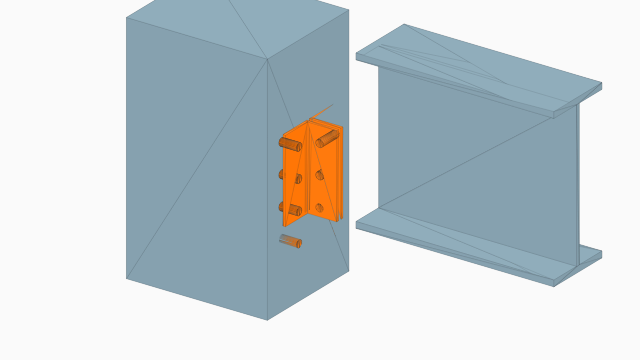
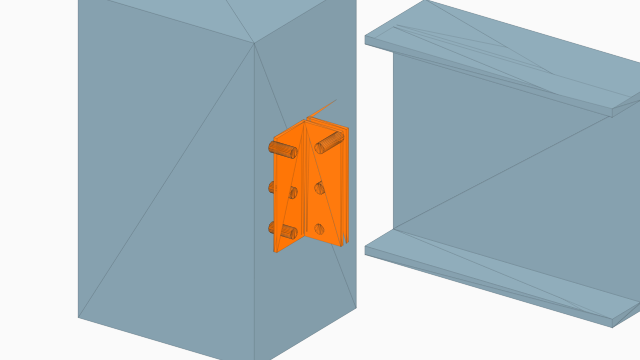
fix(shear): valida que los pernos queden dentro del elemento
- Rechaza grupos de pernos que no caben en el largo de la placa o angulo.
- Exige l_ev y l_eh no menores que la Tabla J3.4 y separacion 2⅔d.
- Detiene el calculo con un mensaje que indica el campo y la correccion.
- Corrige el doble angulo inicial: 3 filas caben en 8.5 in.
- Actualiza ayuda, referencia y miniaturas.

diff --git a/tests/connections/test_bolt_fit.py b/tests/connections/test_bolt_fit.py
@@ -1,0 +1,112 @@
+# SPDX-License-Identifier: GPL-3.0-or-later
+# Copyright (C) 2026 The OpenConex contributors
+"""Bolt-fit validation: holes must stay inside the connected element.
+
+These tests cover the error that stopped a double angle with four rows drawn in
+an 8.5 in angle: the last bolt fell outside the angle.  The same rule applies
+to every shear connection whose bolt rows are defined by length, rows, spacing
+and edge distance.
+"""
+
+import dataclasses
+import json
+from pathlib import Path
+
+import pytest
+
+from openconex.connections.shear.bent_plate import SkewedBentPlate
+from openconex.connections.shear.check import (
+    check_shear_connection,
+    validate_shear_connection,
+)
+from openconex.core.loads import Forces, Method
+from openconex.gui.start_data import FAMILIES, build_project
+from openconex.io.project import Project
+from openconex.report.shear import build_shear_report
+from openconex.units import Kind, to_internal
+
+EXAMPLES = Path(__file__).parents[2] / "examples"
+
+
+def inch(value: float) -> float:
+    return to_internal(value, "in", Kind.LENGTH)
+
+
+def kip(value: float) -> float:
+    return to_internal(value, "kip", Kind.FORCE)
+
+
+def model(family: str, subtype: str):
+    return build_project(family, subtype).shear_model()
+
+
+@pytest.mark.parametrize(
+    "family",
+    [family for family in FAMILIES if family.enabled and family.id != "base_plate"],
+    ids=lambda family: family.id,
+)
+def test_starter_projects_have_valid_bolt_groups(family):
+    for subtype in family.subtypes:
+        validate_shear_connection(model(family.id, subtype.id))
+
+
+@pytest.mark.parametrize("subtype", [
+    "double_angle", "single_plate", "extended_single_plate", "end_plate",
+    "skewed_bent_plate",
+])
+def test_bolt_group_outside_element_is_rejected(subtype):
+    conn = model("shear_column", subtype)
+    element = conn.element
+    if isinstance(element, SkewedBentPlate):
+        plate = dataclasses.replace(element.plate_a, rows=element.plate_a.rows + 1)
+        element = dataclasses.replace(element, plate_a=plate)
+    else:
+        element = dataclasses.replace(element, rows=element.rows + 1)
+    with pytest.raises(ValueError, match="no caben"):
+        validate_shear_connection(dataclasses.replace(conn, element=element))
+
+
+@pytest.mark.parametrize("subtype", [
+    "double_angle", "single_plate", "extended_single_plate", "end_plate",
+])
+def test_vertical_edge_below_table_j34_is_rejected(subtype):
+    conn = model("shear_column", subtype)
+    element = dataclasses.replace(conn.element, lev=inch(0.75))
+    with pytest.raises(ValueError, match=r"Tabla J3\.4"):
+        validate_shear_connection(dataclasses.replace(conn, element=element))
+
+
+@pytest.mark.parametrize(("subtype", "field"), [
+    ("double_angle", "leh_beam"),
+    ("single_plate", "leh"),
+    ("extended_single_plate", "leh"),
+    ("end_plate", "leh"),
+])
+def test_horizontal_edge_below_table_j34_is_rejected(subtype, field):
+    conn = model("shear_column", subtype)
+    element = dataclasses.replace(conn.element, **{field: inch(0.75)})
+    with pytest.raises(ValueError, match=r"Tabla J3\.4"):
+        validate_shear_connection(dataclasses.replace(conn, element=element))
+
+
+def test_spacing_below_j33_is_rejected():
+    conn = model("shear_column", "double_angle")
+    element = dataclasses.replace(conn.element, spacing=inch(1.0))
+    with pytest.raises(ValueError, match="separación mínima"):
+        validate_shear_connection(dataclasses.replace(conn, element=element))
+
+
+def test_invalid_geometry_stops_the_calculation():
+    conn = model("shear_column", "double_angle")
+    element = dataclasses.replace(conn.element, rows=4)
+    conn = dataclasses.replace(conn, element=element)
+    with pytest.raises(ValueError, match="no caben"):
+        check_shear_connection(conn, Forces(V2=kip(10)), Method.LRFD)
+
+
+def test_report_rejects_the_invalid_double_angle():
+    data = json.loads((EXAMPLES / "shear_double_angle_coped.ocnx").read_text(
+        encoding="utf-8"))
+    data["shear_connection"]["rows"] = 4
+    with pytest.raises(ValueError, match="no caben"):
+        build_shear_report(Project.model_validate(data))

diff --git a/src/openconex/connections/shear/check.py b/src/openconex/connections/shear/check.py
@@ -24,6 +24,7 @@ from openconex.kernel.design import Calc
 from openconex.units import Kind
 
 from .bent_plate import SkewedBentPlate, check_skewed_bent_plate
+from .bolts_fit import check_edge, check_rows, check_spacing, fail, fmt_length
 from .coped_beam import CopedBeam, check_coped_beam
 from .double_angle import DoubleAngle, check_double_angle, check_shared_support_bolts
 from .double_angle_axial import AxialBeam, check_double_angle_axial
@@ -35,7 +36,8 @@ from .single_plate import SinglePlate, check_single_plate
 from .single_plate_axial import check_single_plate_axial
 from .stiffened_seat import StiffenedSeat, check_stiffened_seat
 
-__all__ = ["ShearConnection", "ShearType", "check_shear_connection", "check_shear_envelope"]
+__all__ = ["ShearConnection", "ShearType", "check_shear_connection",
+           "check_shear_envelope", "validate_shear_connection"]
 
 
 class ShearType(StrEnum):
@@ -93,6 +95,53 @@ class ShearConnection:
         return isinstance(da, DoubleAngle) and (da.support_weld > 0 or da.beam_weld > 0)
 
 
+def validate_shear_connection(conn: ShearConnection) -> None:
+    """Reject bolt groups that do not fit the connected element.
+
+    The drawing and the 3D model are generated from these fields; a bolt row
+    outside the plate or angle, or an edge distance below AISC 360-22
+    Table J3.4, must stop the calculation with a message that says what to
+    correct.  Welded legs have no holes and are not checked.
+    """
+    el = conn.element
+    if isinstance(el, DoubleAngle):
+        beam_bolted = el.beam_weld <= 0.0
+        support_bolted = el.support_weld <= 0.0
+        if beam_bolted or support_bolted:
+            check_rows("el ángulo doble", el.bolt, el.length, el.rows,
+                       el.spacing, el.lev)
+            if beam_bolted:
+                check_edge("l_eh en el ala de la viga", el.leh_beam, el.bolt)
+            if support_bolted:
+                check_edge("l_eh en el ala del apoyo", el.leh_support, el.bolt)
+        if conn.beam_leh is not None:
+            check_edge("l_eh del alma de la viga", conn.beam_leh, el.bolt)
+    elif isinstance(el, SinglePlate):
+        check_rows("la placa simple", el.bolt, el.length, el.rows, el.spacing, el.lev)
+        check_edge("l_eh de la placa", el.leh, el.bolt)
+        if el.beam_leh is not None:
+            check_edge("l_eh del alma de la viga", el.beam_leh, el.bolt)
+    elif isinstance(el, ExtendedSinglePlate):
+        check_rows("la placa extendida", el.bolt, el.length, el.rows, el.spacing, el.lev)
+        check_edge("l_eh de la placa", el.leh, el.bolt)
+        if el.lines > 1:
+            check_spacing("g", el.gage, el.bolt)
+        if el.beam_leh is not None:
+            check_edge("l_eh del alma de la viga", el.beam_leh, el.bolt)
+    elif isinstance(el, EndPlate):
+        check_rows("la placa de extremo", el.bolt, el.length, el.rows, el.spacing, el.lev)
+        check_edge("l_eh de la placa", el.leh, el.bolt)
+    elif isinstance(el, SkewedBentPlate):
+        for label, plate in (("A", el.plate_a), ("B", el.plate_b)):
+            check_rows(f"la placa doblada {label}", plate.bolt, plate.length,
+                       plate.rows, plate.spacing, plate.lev)
+            check_edge(f"l_eh de la placa doblada {label}", plate.leh, plate.bolt)
+            if plate.width > 0.0 and plate.width + 1e-3 < plate.leh:
+                fail(f"el ancho de la placa doblada {label} "
+                     f"({fmt_length(plate.width)}) es menor que l_eh "
+                     f"({fmt_length(plate.leh)}). Aumente el ancho de la placa.")
+
+
 def _unsupported(key: str, value: float, method: Method, combo: str,
                  clause: str) -> CheckResult:
     c = Calc(method, combo)
@@ -103,6 +152,7 @@ def _unsupported(key: str, value: float, method: Method, combo: str,
 def check_shear_connection(conn: ShearConnection, forces: Forces, method: Method,
                            combo: str = "") -> list[CheckResult]:
     """All limit states for the end forces of one combination."""
+    validate_shear_connection(conn)
     V = abs(forces.V2)
     N = max(-forces.P, 0.0)
     out: list[CheckResult] = []

diff --git a/src/openconex/connections/shear/bolts_fit.py b/src/openconex/connections/shear/bolts_fit.py
@@ -1,0 +1,74 @@
+# SPDX-License-Identifier: GPL-3.0-or-later
+# Copyright (C) 2026 The OpenConex contributors
+"""Bolt-fit checks shared by the shear connections.
+
+These are input-geometry checks, not strength limit states.  A bolt row that
+falls outside the plate or angle, or an edge distance below AISC 360-22
+Table J3.4, cannot be built: the calculation stops with an actionable error
+instead of drawing a connection that does not exist.
+
+All lengths are internal millimetres.  Messages show inches because the shear
+module follows the U.S. customary tables of the AISC Specification.
+"""
+
+from __future__ import annotations
+
+from openconex.core.bolting import min_edge_distance, min_spacing
+from openconex.core.model import BoltSpec
+from openconex.units import Kind, from_internal, to_internal
+
+__all__ = ["check_edge", "check_rows", "check_spacing", "fail", "fmt_length"]
+
+TOL = to_internal(1e-4, "in", Kind.LENGTH)
+
+
+def fmt_length(value: float) -> str:
+    """Format an internal length in inches for a user message."""
+    return f"{from_internal(value, Kind.LENGTH, 'in'):.3f} in"
+
+
+def fail(message: str) -> None:
+    """Raise the user-facing geometry error."""
+    raise ValueError(f"Geometría de pernos: {message}")
+
+
+def check_edge(label: str, value: float, bolt: BoltSpec) -> None:
+    """Require an edge distance no smaller than Table J3.4."""
+    diameter = from_internal(bolt.diameter, Kind.LENGTH, "in")
+    required = min_edge_distance(diameter)
+    if value + TOL < required:
+        fail(f"{label} = {fmt_length(value)} es menor que el mínimo de la Tabla J3.4 "
+             f"para un perno de {fmt_length(bolt.diameter)} ({fmt_length(required)}). "
+             "Aumente la distancia al borde.")
+
+
+def check_spacing(label: str, value: float, bolt: BoltSpec) -> None:
+    """Require a centre-to-centre spacing no smaller than §J3.3."""
+    required = min_spacing(bolt.diameter)
+    if value + TOL < required:
+        fail(f"{label} = {fmt_length(value)} es menor que la separación mínima "
+             f"2⅔d = {fmt_length(required)}. Aumente la separación.")
+
+
+def check_rows(element: str, bolt: BoltSpec, length: float, rows: int,
+               spacing: float, lev: float) -> None:
+    """Require the vertical bolt group to fit inside the element.
+
+    The drawing places the first row at ``lev`` from the top and the remaining
+    rows at ``spacing``; the last row must keep ``lev`` from the bottom edge.
+    """
+    if rows < 1:
+        fail(f"{element} no tiene filas de pernos.")
+    check_edge("l_ev", lev, bolt)
+    if rows > 1:
+        check_spacing("s", spacing, bolt)
+    required = 2 * lev + (rows - 1) * spacing
+    if length + TOL < required:
+        subject = ("el perno" if rows == 1
+                   else f"los {rows} pernos")
+        verb = "no cabe" if rows == 1 else "no caben"
+        fail(f"{subject} {verb} en {element}: con l_ev = {fmt_length(lev)} "
+             f"y s = {fmt_length(spacing)} necesita{'n' if rows > 1 else ''} "
+             f"{fmt_length(required)} de largo y el elemento tiene "
+             f"{fmt_length(length)}. Aumente el largo, reduzca filas o "
+             "disminuya la separación.")

diff --git a/src/openconex/help.py b/src/openconex/help.py
@@ -230,7 +230,8 @@ _COPE = [
 _GEOMETRY = [
     _f("rows", "Filas de pernos", "Geometría",
        "Número de pernos por línea vertical.",
-       "Escriba un entero positivo; en la placa de extremo son filas de dos pernos.",
+       "Escriba un entero positivo; en la placa de extremo son filas de dos pernos. "
+       "Debe cumplirse 2 l_ev + (filas - 1) s ≤ largo.",
        "Afecta el grupo de pernos, el área neta y el bloque de corte.",
        "—", "todas"),
     _f("lines", "Líneas de pernos", "Geometría",
@@ -240,7 +241,7 @@ _GEOMETRY = [
        "1", "PSE"),
     _f("spacing", "Separación s", "Geometría",
        "Distancia vertical entre pernos.",
-       "Escriba la separación; debe ser positiva.",
+       "Escriba la separación; el mínimo es 2⅔d y el grupo debe caber en el largo.",
        "Afecta aplastamiento interior, desgarro y bloque de corte.",
        "—", "todas"),
     _f("gage", "Gramil g", "Geometría",
@@ -251,7 +252,8 @@ _GEOMETRY = [
        "—", "PSE, DA"),
     _f("length", "Largo", "Geometría",
        "Largo de la placa, ángulo, asiento o rigidizador.",
-       "Escriba el largo; debe ser positivo.",
+       "Escriba el largo; debe alojar el grupo de pernos: "
+       "largo ≥ 2 l_ev + (filas - 1) s.",
        "Afecta corte, bloque de corte, soldadura y peso.",
        "—", "todas"),
     _f("thickness", "Espesor", "Geometría",
@@ -261,17 +263,19 @@ _GEOMETRY = [
        "—", "todas"),
     _f("lev", "l_ev", "Geometría",
        "Distancia vertical del perno extremo al borde.",
-       "Escriba la distancia al borde superior o inferior.",
-       "Afecta el desgarro del perno de borde.",
+       "Escriba la distancia al borde superior o inferior; el mínimo es la "
+       "Tabla J3.4.",
+       "Afecta el desgarro del perno de borde y el espacio disponible.",
        "—", "todas"),
     _f("leh", "l_eh", "Geometría",
        "Distancia horizontal al borde de la placa.",
-       "En el doble ángulo, es la distancia en el ala sobre el alma de la viga.",
+       "En el doble ángulo, es la distancia en el ala sobre el alma de la viga; "
+       "el mínimo es la Tabla J3.4.",
        "Afecta el desgarro y el bloque de corte.",
        "—", "todas"),
     _f("leh_support", "l_eh en el apoyo", "Geometría",
        "Distancia horizontal al borde en las alas salientes del ángulo.",
-       "Escriba l_eh del lado del apoyo.",
+       "Escriba l_eh del lado del apoyo; el mínimo es la Tabla J3.4.",
        "Afecta el desgarro del ángulo en el apoyo.",
        "—", "DA"),
     _f("a", "Distancia a", "Geometría",

diff --git a/src/openconex/gui/start_data.py b/src/openconex/gui/start_data.py
@@ -95,8 +95,9 @@ SHEAR_BASE: dict[str, Any] = {
 
 SHEAR_OVERRIDES: dict[str, dict[str, Any]] = {
     "double_angle": {
-        "length": "8.5 in", "leh": "1.25 in", "leh_support": "1.25 in",
-        "support_element": "web",
+        # Three rows fit the 8.5 in angle: 2 x 1.25 + 2 x 3 = 8.5 in.
+        "rows": 3, "length": "8.5 in", "leh": "1.25 in",
+        "leh_support": "1.25 in", "support_element": "web",
     },
     "single_plate": {},
     "extended_single_plate": {

diff --git a/docs/usuario/10-referencia-conexion-corte.md b/docs/usuario/10-referencia-conexion-corte.md
@@ -47,15 +47,15 @@ Esta página se genera desde `src/openconex/help.py`. Cada entrada responde qué
 
 | Campo / acción | Qué es | Cómo se usa | Efecto en el cálculo | Defecto | Tipos |
 |---|---|---|---|---|---|
-| `rows` | Número de pernos por línea vertical. | Escriba un entero positivo; en la placa de extremo son filas de dos pernos. | Afecta el grupo de pernos, el área neta y el bloque de corte. | — | todas |
+| `rows` | Número de pernos por línea vertical. | Escriba un entero positivo; en la placa de extremo son filas de dos pernos. Debe cumplirse 2 l_ev + (filas - 1) s ≤ largo. | Afecta el grupo de pernos, el área neta y el bloque de corte. | — | todas |
 | `lines` | Número de líneas verticales de la placa simple extendida. | Use 1 o 2; con 2 debe definir el gramil. | Duplica el grupo de pernos y cambia el bloque de corte. | 1 | PSE |
-| `spacing` | Distancia vertical entre pernos. | Escriba la separación; debe ser positiva. | Afecta aplastamiento interior, desgarro y bloque de corte. | — | todas |
+| `spacing` | Distancia vertical entre pernos. | Escriba la separación; el mínimo es 2⅔d y el grupo debe caber en el largo. | Afecta aplastamiento interior, desgarro y bloque de corte. | — | todas |
 | `gage` | Separación entre líneas de pernos o gramil de los ángulos. | En placa extendida con dos líneas, escriba la separación; en doble ángulo con tracción, el gramil de las alas. | Cambia el grupo de pernos y el brazo de palanca de la tracción. | — | PSE, DA |
-| `length` | Largo de la placa, ángulo, asiento o rigidizador. | Escriba el largo; debe ser positivo. | Afecta corte, bloque de corte, soldadura y peso. | — | todas |
+| `length` | Largo de la placa, ángulo, asiento o rigidizador. | Escriba el largo; debe alojar el grupo de pernos: largo ≥ 2 l_ev + (filas - 1) s. | Afecta corte, bloque de corte, soldadura y peso. | — | todas |
 | `thickness` | Espesor de la placa, ángulo, asiento o rigidizador. | Escriba el espesor; debe ser positivo. | Afecta todas las capacidades de la placa y el tamaño máximo de soldadura. | — | todas |
-| `lev` | Distancia vertical del perno extremo al borde. | Escriba la distancia al borde superior o inferior. | Afecta el desgarro del perno de borde. | — | todas |
-| `leh` | Distancia horizontal al borde de la placa. | En el doble ángulo, es la distancia en el ala sobre el alma de la viga. | Afecta el desgarro y el bloque de corte. | — | todas |
-| `leh_support` | Distancia horizontal al borde en las alas salientes del ángulo. | Escriba l_eh del lado del apoyo. | Afecta el desgarro del ángulo en el apoyo. | — | DA |
+| `lev` | Distancia vertical del perno extremo al borde. | Escriba la distancia al borde superior o inferior; el mínimo es la Tabla J3.4. | Afecta el desgarro del perno de borde y el espacio disponible. | — | todas |
+| `leh` | Distancia horizontal al borde de la placa. | En el doble ángulo, es la distancia en el ala sobre el alma de la viga; el mínimo es la Tabla J3.4. | Afecta el desgarro y el bloque de corte. | — | todas |
+| `leh_support` | Distancia horizontal al borde en las alas salientes del ángulo. | Escriba l_eh del lado del apoyo; el mínimo es la Tabla J3.4. | Afecta el desgarro del ángulo en el apoyo. | — | DA |
 | `a` | Distancia de la soldadura a la primera línea de pernos. | Escriba a; debe ser positiva. | Genera el momento excéntrico V·a y cambia el grupo de pernos. | — | PS, PSE |
 | `weld` | Tamaño del filete de soldadura. | Escriba el tamaño; debe ser positivo. | Afecta la capacidad de soldadura y el espesor mínimo del apoyo. | — | todas |
 | `support_weld` | Soldadura de los ángulos o del asiento al apoyo. | Escriba el tamaño; si existe, reemplaza los pernos del apoyo. | Activa la comprobación de soldadura y desactiva los pernos del apoyo. | — | DA, AS |

diff --git a/docs/usuario/09-interfaz.md b/docs/usuario/09-interfaz.md
@@ -211,6 +211,8 @@ La misma información está en [Referencia de la conexión de corte](10-referenc
 6. **Calcular** (`F5`): pestañas **Resumen**, **Verificaciones**, **Figuras** (elevación e isométrico) y **3D**.
 7. **Archivo > Guardar** y **Exportar** a HTML, Word, PDF, DXF, STEP o STL.
 
+Antes de calcular se revisa la geometría de los pernos. Cada fila debe quedar dentro de la placa, el ángulo o la placa de extremo, con las distancias al borde `l_ev` y `l_eh` de la Tabla J3.4 y una separación mínima de `2⅔d`. Si el grupo no cabe, **Calcular** muestra **Datos no válidos** con el campo y el valor necesario, y no genera figuras ni resultados. Por ejemplo, cuatro filas a 3 in con `l_ev = 1.25 in` necesitan 11.5 in de largo; un ángulo de 8.5 in se rechaza y pide aumentar el largo o reducir filas/separación.
+
 El cálculo por lotes también admite proyectos de conexión de corte; en el resumen, la columna muestra la viga.
 
 ## Cálculo por lotes
